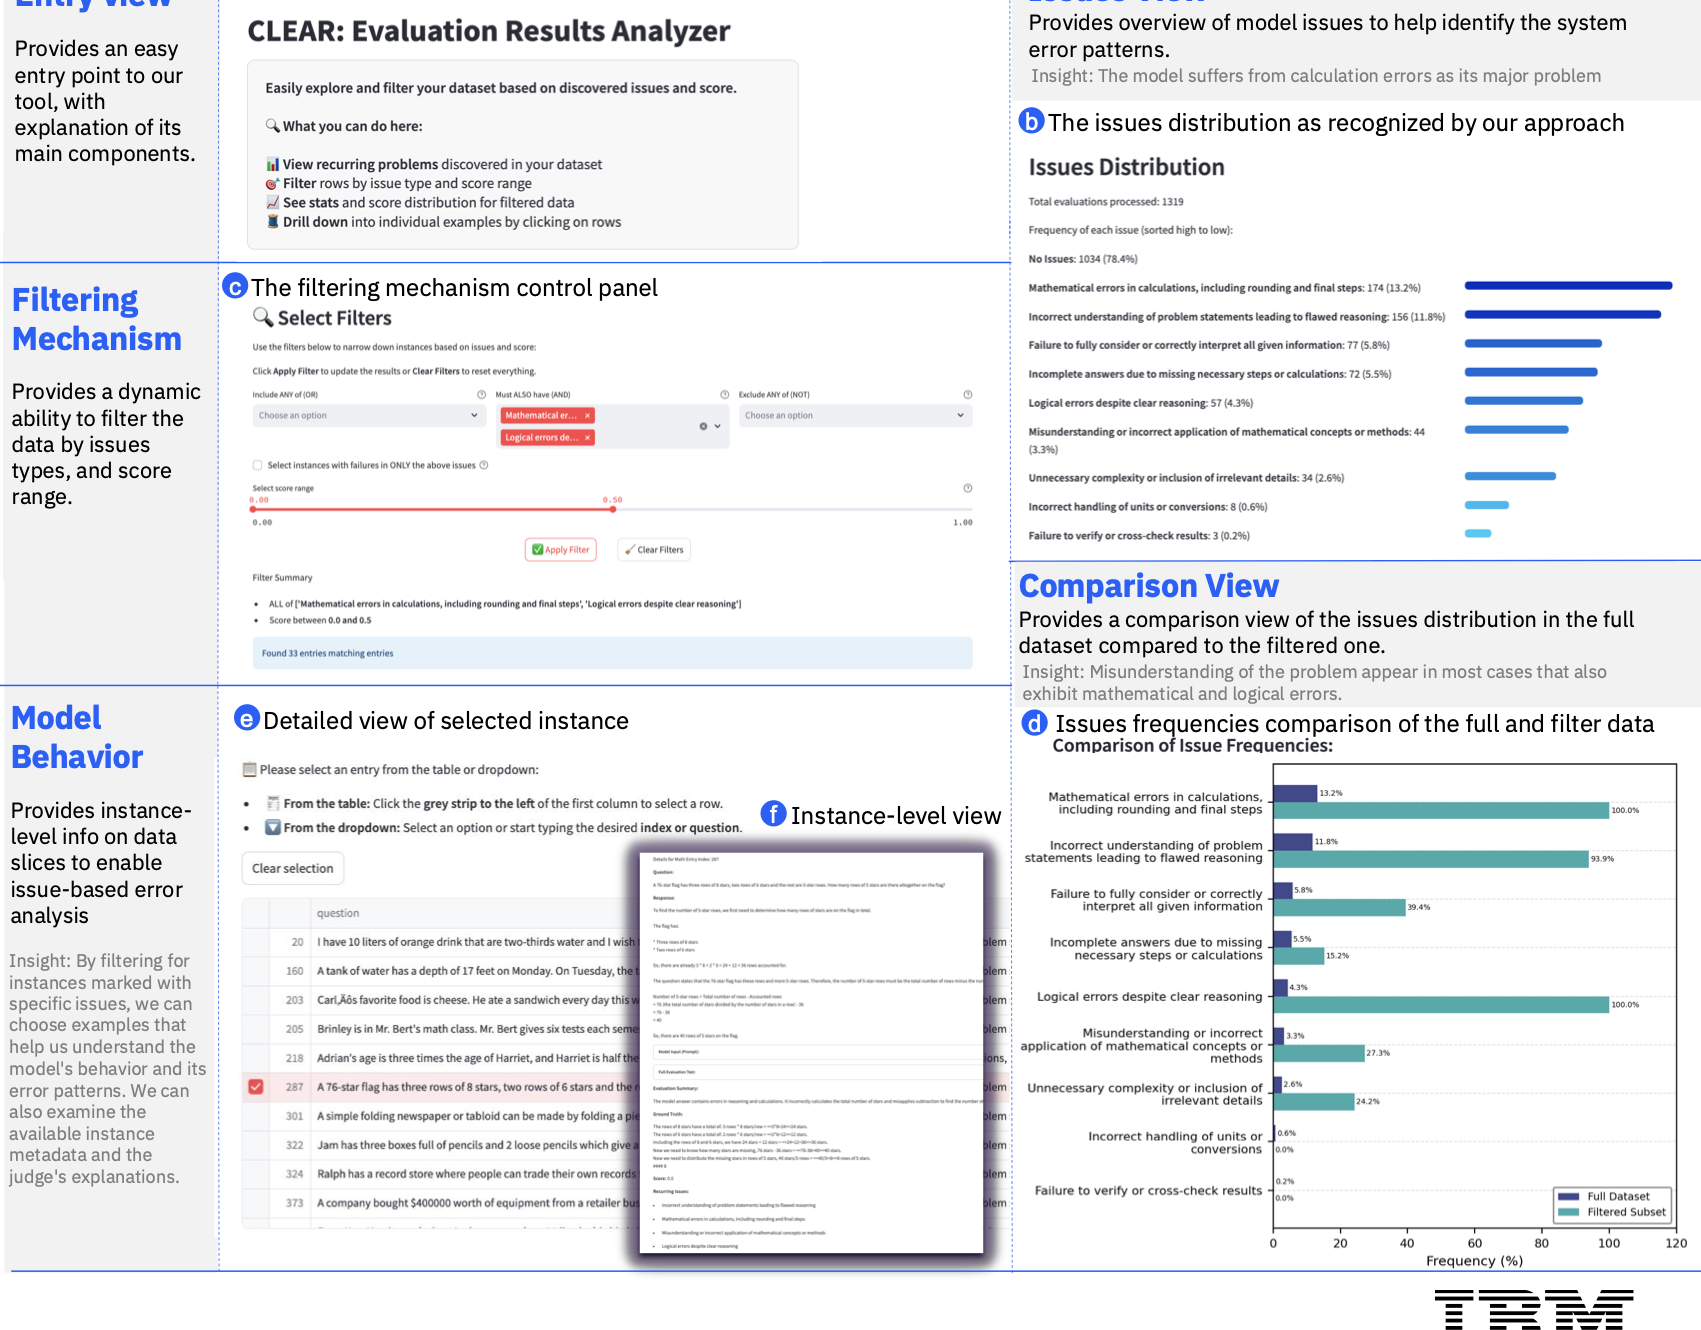
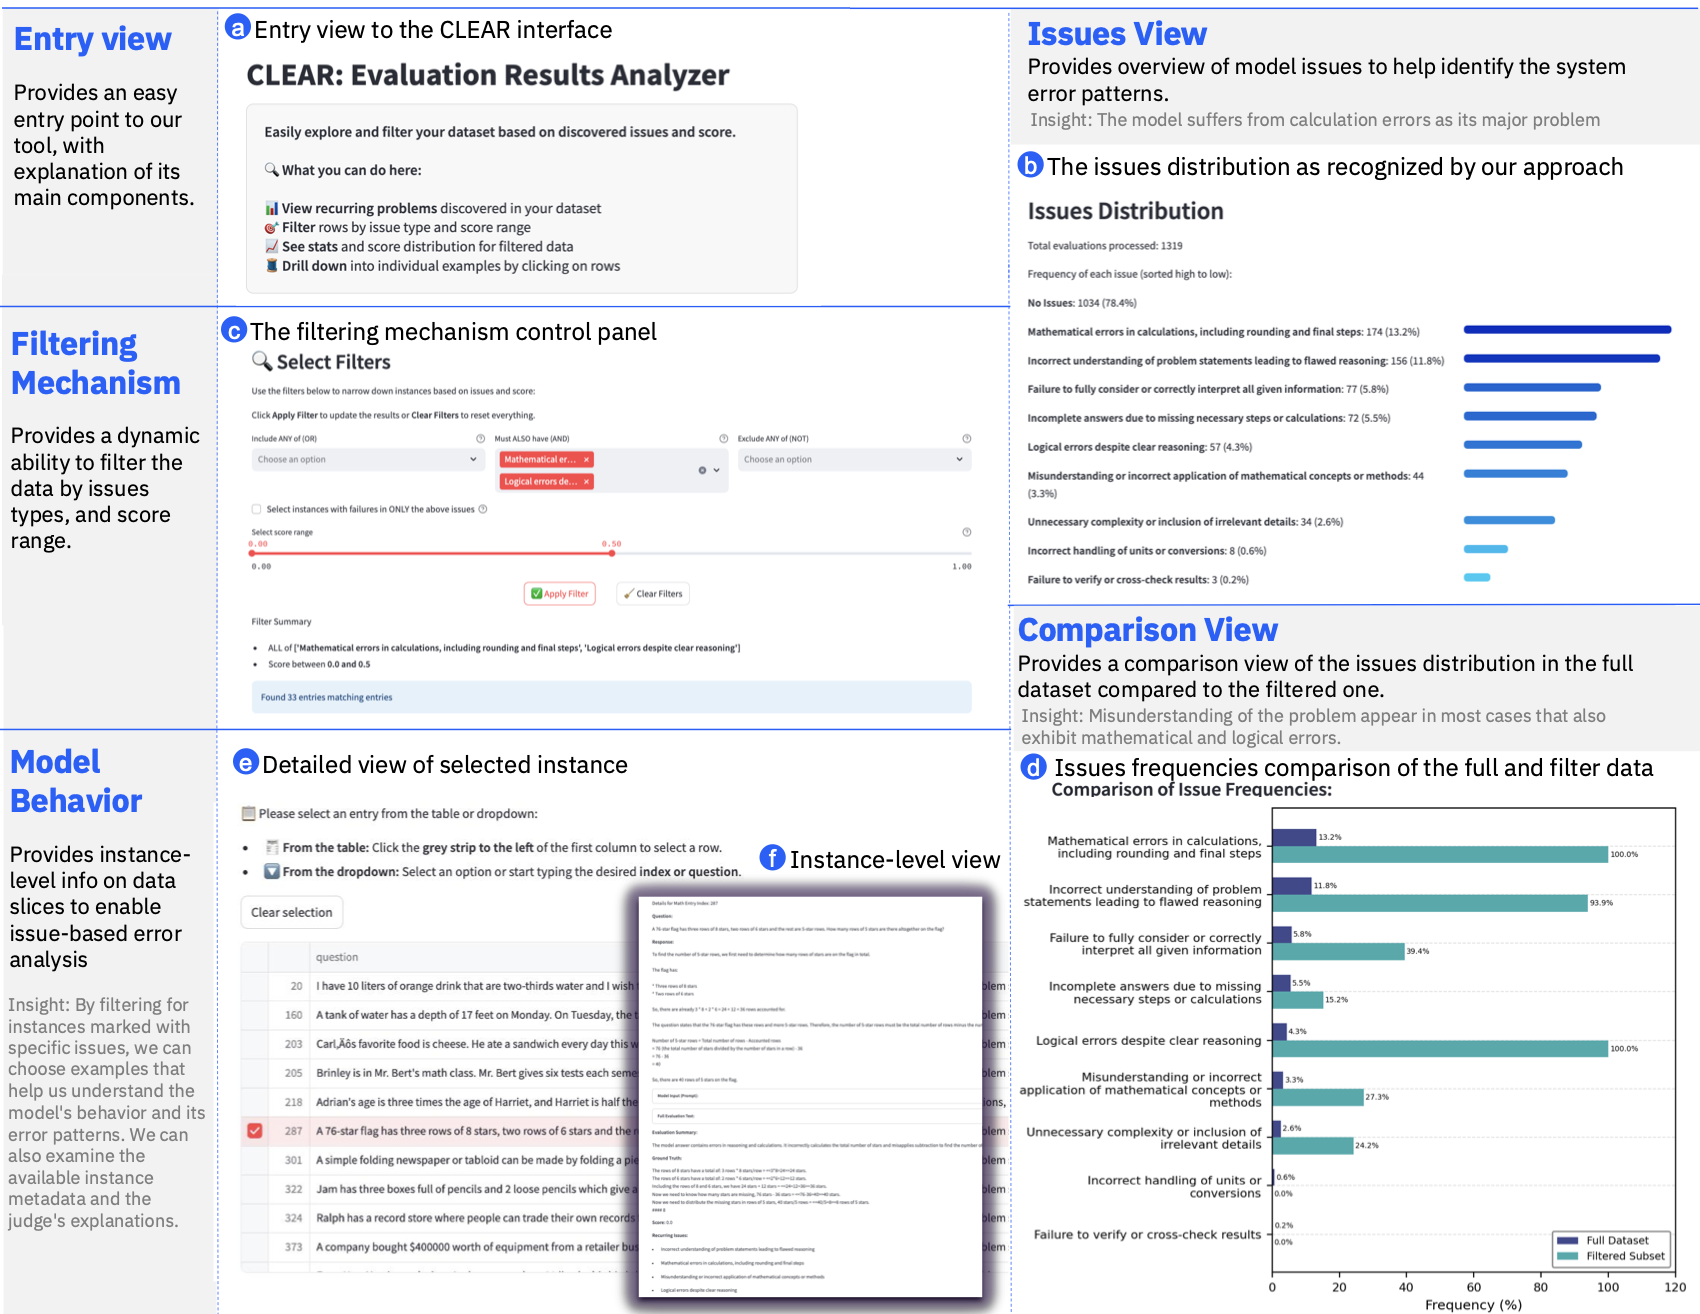
fix agentic ui figures

Changed region(s): [[0.0, 0.0, 0.9976, 1.0], [0.4365, 0.2808, 0.4676, 0.3744]]

diff --git a/project-page/index.html b/project-page/index.html
@@ -289,7 +289,7 @@
     <h2 class="title is-3">Dashboard</h2>
     <figure>
       <div class="ui-figure-wrap">
-        <a href="static/images/Agentic_CLEAR_UI_figure_v7_new.pdf#navpanes=0" target="_blank"><img src="static/images/agentic_clear_ui.png" alt="Agentic CLEAR interactive dashboard (click for high-res PDF)"></a>
+        <a href="static/images/agentic_clear_ui.pdf#navpanes=0" target="_blank"><img src="static/images/agentic_clear_ui_trimmed.png" alt="Agentic CLEAR interactive dashboard (click for high-res PDF)"></a>
       </div>
       <figcaption><span class="fig-label">Agentic CLEAR Dashboard.</span> A hierarchical UI with three views: <strong>System View</strong> reconstructs the multi-agent topology and surfaces global issues; <strong>Node View</strong> enables per-component error analysis with filtering; <strong>Trace View</strong> provides step-level inspection with rubric evaluation and dimension scores.</figcaption>
     </figure>
@@ -480,7 +480,7 @@
     <h2 class="title is-3">Dashboard</h2>
     <figure>
       <div class="ui-figure-wrap">
-        <a href="static/images/clear_ui.pdf#navpanes=0" target="_blank"><img src="static/images/clear_ui.png" alt="CLEAR LLM Analysis interactive UI (click for high-res PDF)"></a>
+        <a href="static/images/clear_ui.pdf#navpanes=0" target="_blank"><img src="static/images/clear_ui_trimmed.png" alt="CLEAR LLM Analysis interactive UI (click for high-res PDF)"></a>
       </div>
       <figcaption><span class="fig-label">CLEAR Dashboard.</span> The Streamlit-based interface provides: an <strong>Issues View</strong> showing error distribution and frequency; a <strong>Filtering Mechanism</strong> to isolate examples by issue type or score range; a <strong>Comparison View</strong> contrasting filtered vs. full-dataset distributions; and a <strong>Model Behavior</strong> panel for instance-level inspection of judge feedback.</figcaption>
     </figure>